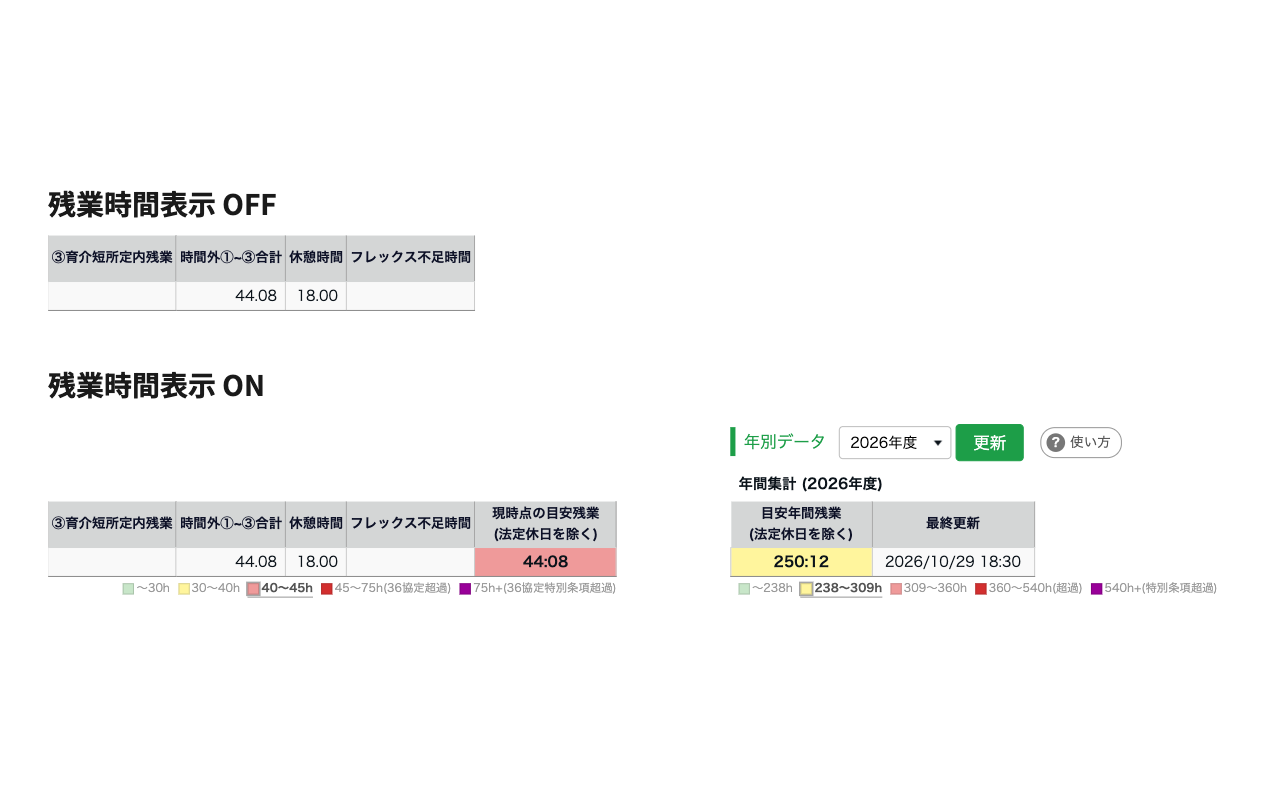
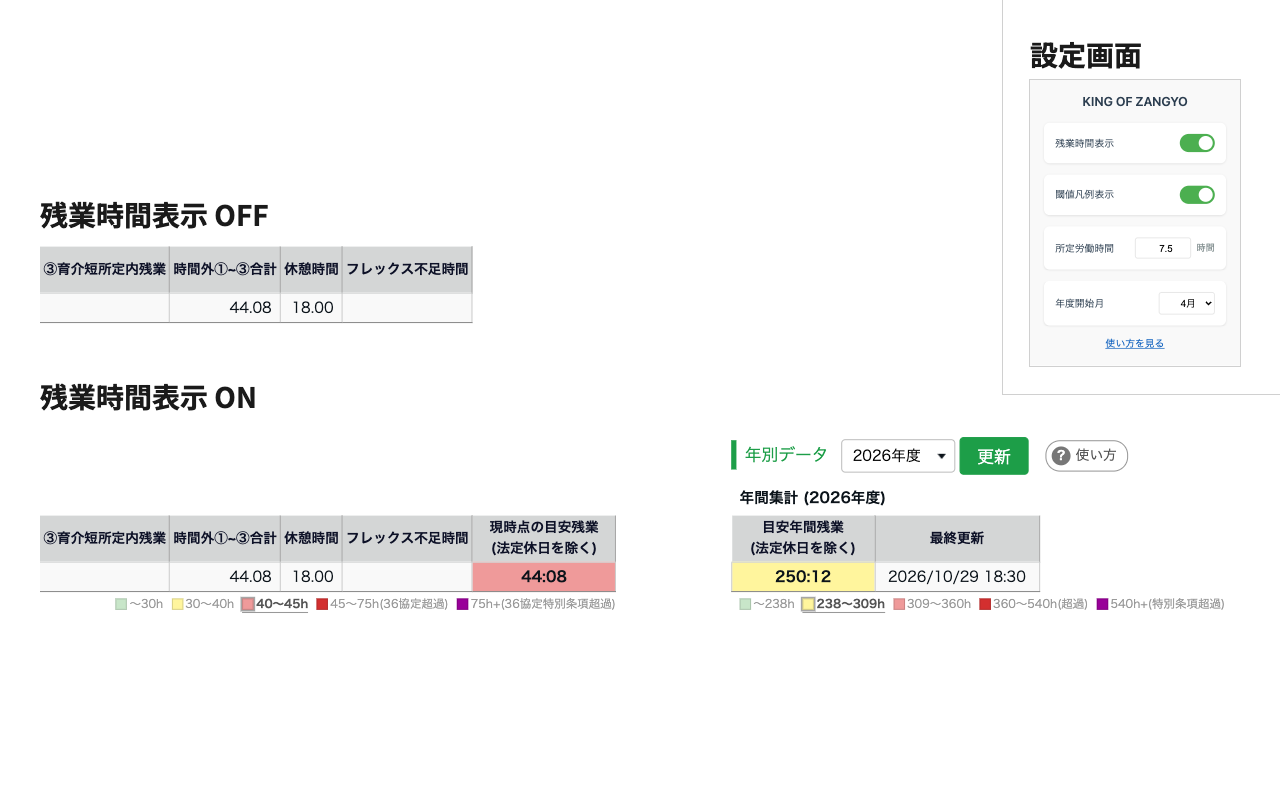
ストア用スクリーンショットの右上に設定画面の区画を足し、OFFをONのすぐ上に寄せた

diff --git a/store-assets/screenshot-compose.html b/store-assets/screenshot-compose.html
@@ -1,8 +1,8 @@
 <!DOCTYPE html>
 <!--
   Chrome ウェブストア用のスクリーンショット（1280x800）を書き出すページ。
-  テスト用HTML（test/ サブモジュール）を枠の中に2つ読み込み、上にOFF、下にONを並べる。
-  OFFとONは同じ倍率で、同じ列が上下でそろう。
+  テスト用HTML（test/ サブモジュール）を枠の中に読み込み、上にOFF、下にONを並べる。
+  OFFとONは同じ倍率で、同じ列が上下でそろう。右上の角だけを線で区切り、設定画面（popup.html）を置く。
 
   書き出し方（リポジトリのルートで）
     1. ルートを配信する。macOSの権限で ~/Documents は python の http.server から読めないので、一時フォルダーに写してから配信する
@@ -10,7 +10,7 @@
     2. 別の端末で、ヘッドレスの Chrome で撮る
        "/Applications/Google Chrome.app/Contents/MacOS/Google Chrome" --headless=new --hide-scrollbars \
          --force-device-scale-factor=1 --user-data-dir="$TMPDIR/koz-chrome" --window-size=1280,800 \
-         --virtual-time-budget=15000 --screenshot=store-assets/screenshot.png \
+         --virtual-time-budget=20000 --screenshot=store-assets/screenshot.png \
          "http://127.0.0.1:8731/store-assets/screenshot-compose.html?export=1"
 
   ブラウザで開くと、テスト用HTMLの保存データ（localStorage）を下の値で上書きする。
@@ -27,13 +27,17 @@
   .clip { position: absolute; overflow: hidden; background: #fff; }
   .clip .frame { position: absolute; left: 0; top: 0; transform-origin: 0 0; }
   .clip iframe { border: 0; display: block; }
+  /* 設定画面の地は #f9f9f9 で白い背景と見分けにくいので、1pxの枠で輪郭を出す */
+  .clip.popup { outline: 1px solid #d0d0d0; }
   .cap { position: absolute; color: #1a1a1a; font-family: "Noto Sans JP", sans-serif; font-size: 28px; font-weight: 700; line-height: 1; }
+  .rule { position: absolute; background: #d0d0d0; }
 </style>
 </head>
 <body>
 <div class="shot" id="shot"></div>
 <script>
   const SRC = '../test/extension-test.html';
+  const POPUP = '../popup.html';
   const shot = document.getElementById('shot');
 
   // 撮る前に、テスト用HTMLの保存データを決まった値にする（2026年度を2026/10/29 18:30に250:12で取得済み）。
@@ -79,17 +83,48 @@
   const visible = e => { const r = e.getBoundingClientRect(); return r.width > 0 && r.height > 0; };
   const union = (doc, els) => { const rs = els.flatMap(p => [p, ...p.querySelectorAll('*')]).filter(visible).map(e => abs(doc, e)); return { l: Math.min(...rs.map(r => r.l)), t: Math.min(...rs.map(r => r.t)), r: Math.max(...rs.map(r => r.r)), b: Math.max(...rs.map(r => r.b)) }; };
 
+  function frameFor(src, width, height, extraClass) {
+    const f = document.createElement('iframe'); f.src = src + '?r=' + Math.random(); f.scrolling = 'no';
+    f.style.width = width + 'px'; f.style.height = height + 'px';
+    const frame = document.createElement('div'); frame.className = 'frame'; frame.appendChild(f);
+    const clip = document.createElement('div'); clip.className = 'clip' + (extraClass ? ' ' + extraClass : ''); clip.appendChild(frame);
+    clip.style.visibility = 'hidden'; shot.appendChild(clip);
+    return { f, frame, clip };
+  }
   function load(off) {
     return new Promise(res => {
-      const f = document.createElement('iframe'); f.src = SRC + '?r=' + Math.random(); f.scrolling = 'no';
-      f.style.width = '1500px'; f.style.height = '900px';
-      const frame = document.createElement('div'); frame.className = 'frame'; frame.appendChild(f);
-      const clip = document.createElement('div'); clip.className = 'clip'; clip.appendChild(frame);
-      clip.style.visibility = 'hidden'; shot.appendChild(clip);
+      const p = frameFor(SRC, 1500, 900);
       // 拡張の描画が終わるのを待つ
-      f.onload = () => setTimeout(() => { prepare(f.contentDocument, off); res({ f, frame, clip, doc: f.contentDocument }); }, 2500);
+      p.f.onload = () => setTimeout(() => { prepare(p.f.contentDocument, off); res({ ...p, doc: p.f.contentDocument }); }, 2500);
     });
   }
+
+  // 拡張アイコンを押して開く設定画面。popup.js は chrome API が無いので動かない。設定画面の状態は、ここで作る
+  function loadPopup() {
+    return new Promise(res => {
+      const p = frameFor(POPUP, 300, 600, 'popup');
+      p.f.onload = () => setTimeout(() => {
+        const d = p.f.contentDocument;
+        // スイッチは0.3秒かけて色が変わる。撮る瞬間に途中の色で写らないよう、動きを止める
+        const st = d.createElement('style'); st.textContent = '*,*::before{transition:none!important}'; d.head.appendChild(st);
+        // 既定の状態（どちらもオン）で写す
+        d.getElementById('toggle-switch').checked = true;
+        d.getElementById('legend-toggle-switch').checked = true;
+        d.getElementById('standard-hours').value = 7.5;
+        d.getElementById('fiscal-year-start').value = '4';
+        // フッター（thanks to と developed by の2行）は写さない
+        d.querySelector('.footer').style.display = 'none';
+        // 実装前の仮。設定の下に「使い方を見る」を置く予定。実装したら消す
+        const a = d.createElement('a'); a.textContent = '使い方を見る'; a.href = '#';
+        a.style.cssText = 'display:block;text-align:center;margin:4px 0 0;color:#1565c0;text-decoration:underline;font-size:14px';
+        d.querySelector('.container').appendChild(a);
+        const h = d.querySelector('.container').getBoundingClientRect().height;
+        p.f.style.height = h + 'px';
+        res({ ...p, w: 300, h });
+      }, 500);
+    });
+  }
+
   // 枠を切り抜く範囲まで縮めてからスクロールする。広いままだと右へ十分にスクロールできない
   function crop(p, box, s, x, y) {
     const bw = box.r - box.l, bh = box.b - box.t;
@@ -99,10 +134,12 @@
     Object.assign(p.clip.style, { left: x + 'px', top: y + 'px', width: bw * s + 'px', height: bh * s + 'px', visibility: 'visible' });
   }
   function caption(text, x, y) { const c = document.createElement('div'); c.className = 'cap'; c.textContent = text; c.style.left = x + 'px'; c.style.top = y + 'px'; shot.appendChild(c); }
+  function rule(x, y, w, h) { const d = document.createElement('div'); d.className = 'rule'; Object.assign(d.style, { left: x + 'px', top: y + 'px', width: w + 'px', height: h + 'px' }); shot.appendChild(d); }
 
   (async () => {
-    const [on, off] = [await load(false), await load(true)];
-    const PAD = 14, MARGIN = 48, CAP = 26, CAP_GAP = 14, GAP = 44;
+    const [on, off, popup] = [await load(false), await load(true), await loadPopup()];
+    const PAD = 14, CAP = 26, CAP_GAP = 14, GAP = 44, SIDE = 40, TOP = 40, INSET = 28;
+    const W = b => b.r - b.l, H = b => b.b - b.t;
 
     // 左端は、どちらも「③育介短所定内残業」の列の境目ちょうど。余白を足すと隣の列が細く写る。
     // この位置なら月の凡例（表の右端にそろえてある）も左端まで入る
@@ -116,16 +153,29 @@
     // 右端は、見えなくした拡張の列の手前（フレックス不足時間の列の右端）まで
     const offBox = { l: abs(off.doc, off.doc.querySelector('th.custom4')).l, t: ot.t - 6, r: abs(off.doc, off.doc.querySelector('th.custom7')).r + 1, b: ot.b + PAD };
 
-    // 倍率は、ONの切り抜きが左右の余白を残して収まる値。OFFも同じ倍率にする
-    const s = Math.min((1280 - MARGIN * 2) / (onBox.r - onBox.l), 1.6);
-    const hOn = (onBox.b - onBox.t) * s, hOff = (offBox.b - offBox.t) * s;
-    const total = CAP + CAP_GAP + hOff + GAP + CAP + CAP_GAP + hOn;
-    let y = Math.round((800 - total) / 2);
+    // OFFとONは画像の幅いっぱいに使う。OFFもONと同じ倍率にする
+    const s = Math.min((1280 - SIDE * 2) / W(onBox), 1.6);
+    // 設定画面は表より小さくする。大きいと区画が縦に伸び、その下から始まるONがOFFから離れる
+    const sPop = 0.7;
+    const wPop = popup.w * sPop, hPop = popup.h * sPop;
 
-    caption('残業時間表示 OFF', MARGIN, y); y += CAP + CAP_GAP;
-    crop(off, offBox, s, MARGIN, y); y += hOff + GAP;
-    caption('残業時間表示 ON', MARGIN, y); y += CAP + CAP_GAP;
-    crop(on, onBox, s, MARGIN, y);
+    // 右上の角だけを区切って、設定画面の区画にする。区画の左と下に線を引く
+    const cornerX = 1280 - SIDE - wPop - INSET;
+    const cornerB = TOP + CAP + CAP_GAP + hPop + INSET;
+    // ONの右側には年別データがあるので、ONは区画の下の線より下から始める。OFFはONのすぐ上に置く
+    const onY = Math.max(TOP + CAP + CAP_GAP + H(offBox) * s + GAP + CAP + CAP_GAP, cornerB + INSET);
+    const offY = onY - CAP_GAP - CAP - GAP - H(offBox) * s;
+
+    caption('残業時間表示 OFF', SIDE, offY - CAP_GAP - CAP);
+    crop(off, offBox, s, SIDE, offY);
+    caption('残業時間表示 ON', SIDE, onY - CAP_GAP - CAP);
+    crop(on, onBox, s, SIDE, onY);
+
+    rule(cornerX, 0, 1, cornerB);
+    rule(cornerX, cornerB, 1280 - cornerX, 1);
+    caption('設定画面', cornerX + INSET, TOP);
+    popup.frame.style.transform = `scale(${sPop})`;
+    Object.assign(popup.clip.style, { left: (cornerX + INSET) + 'px', top: (TOP + CAP + CAP_GAP) + 'px', width: wPop + 'px', height: hPop + 'px', visibility: 'visible' });
   })();
 </script>
 </body>
